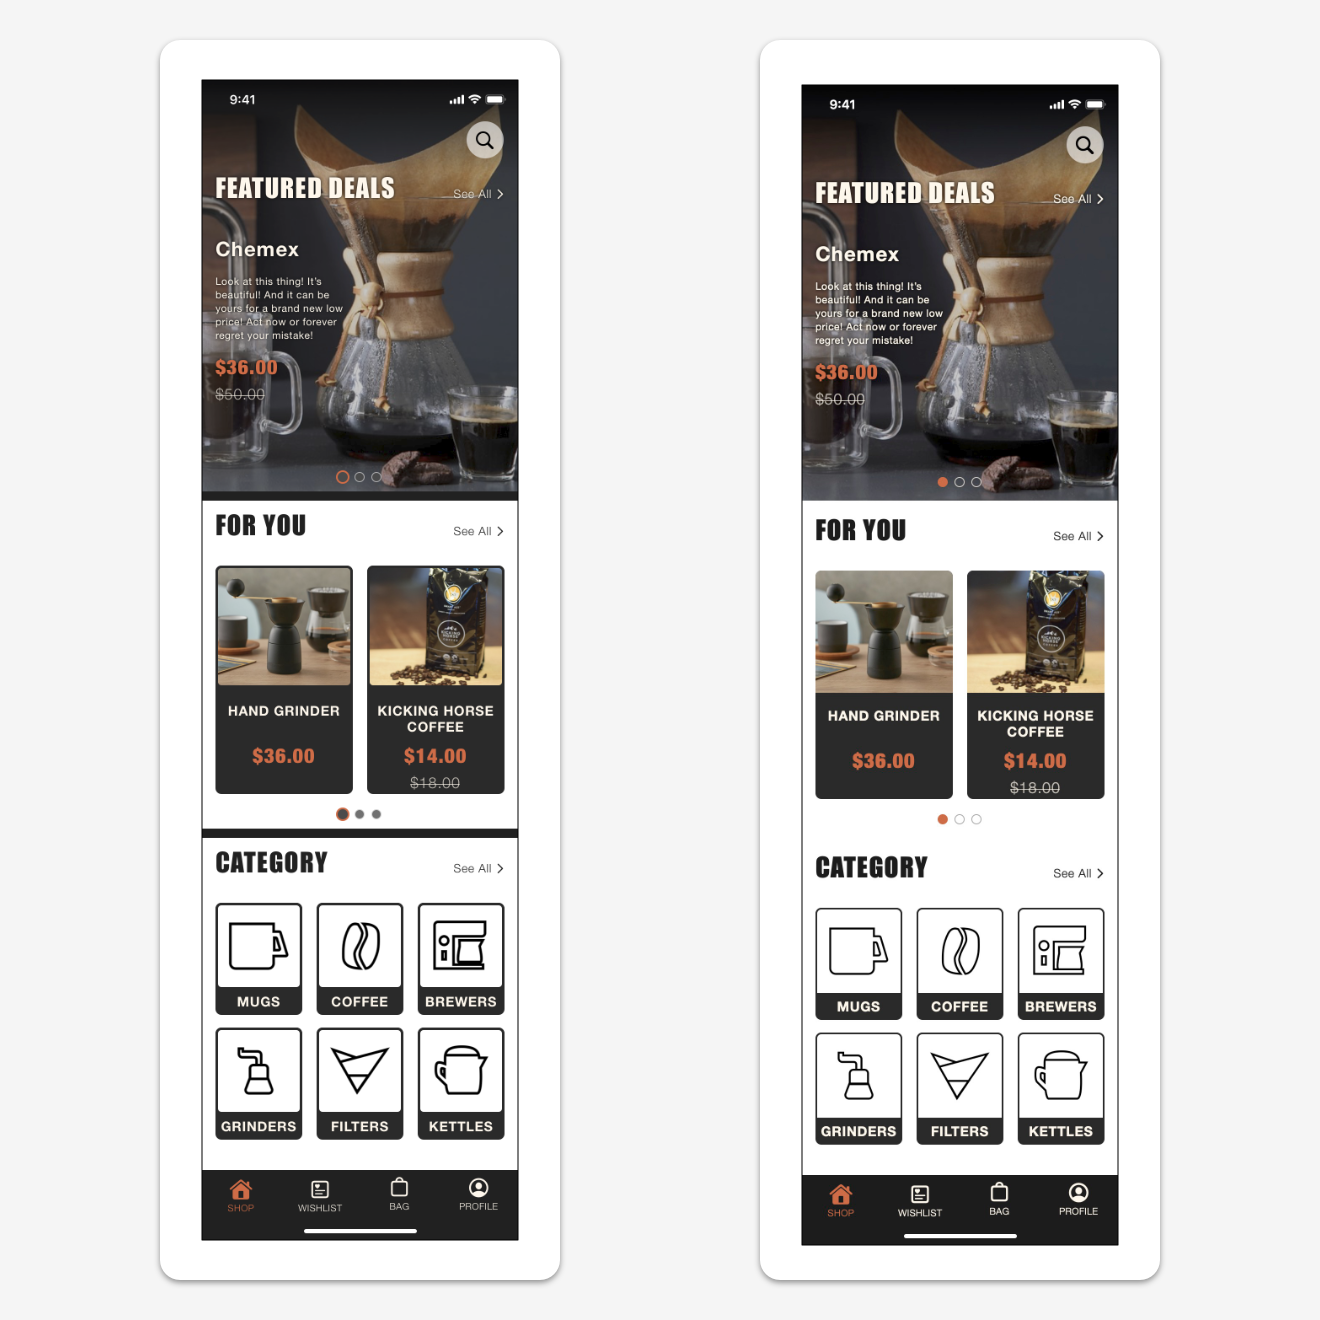
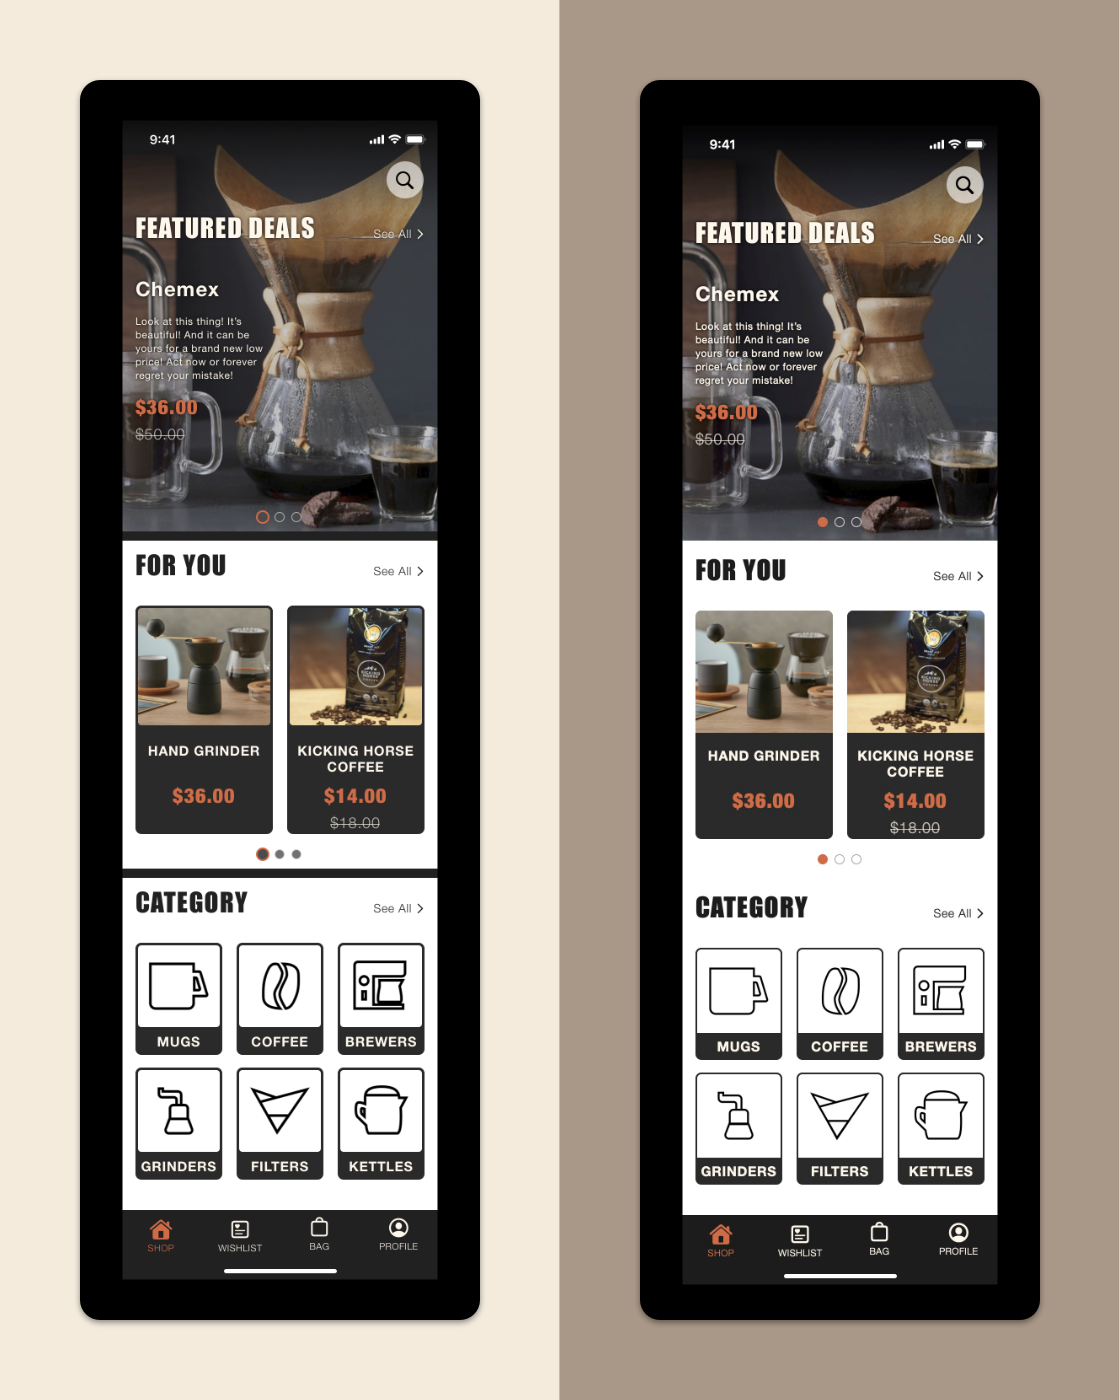
Updated Imagery
- added new images to Mug Shop
- tweaked imagery for Poseable

diff --git a/css/style.css b/css/style.css
@@ -417,7 +417,7 @@ nav>ul>li>a:hover {
 }
 
 .project-stats h1 {
-  color: rgba(255, 255, 255, 1);
+  color: rgba(15,15,15,1);
   font-size: 30px;
   line-height: 30px;
   padding-top: 15px;
@@ -427,7 +427,7 @@ nav>ul>li>a:hover {
 }
 
 .project-stats h4 {
-  color: rgba(255, 255, 255, .75);
+  color: rgba(15,15,15,.75);
   font-size: 14px;
   padding-left: 10px;
   margin-top: 8px;
@@ -435,21 +435,25 @@ nav>ul>li>a:hover {
 }
 
 .project-stats p {
-  color: rgba(255, 255, 255, 1);
+  color: rgba(15,15,15,1);
   font-size: 14px;
   font-weight: 400;
   padding: 0 10px;
   padding-bottom: 15px;
 }
 
+/*
 .project-header {
   background: rgb(213, 83, 38);
   background: linear-gradient(45deg, rgba(213, 83, 38, 1) 31%, rgba(128, 49, 20, 1) 69%);
   border-radius: 10px;
-}
+}*/
+
+
 .project-header.mug-shop {
-  background: rgb(213, 83, 38);
-  background: linear-gradient(45deg, rgba(213, 83, 38, 1) 31%, rgba(128, 49, 20, 1) 69%);
+  background: rgb(232,209,174);
+  background: linear-gradient(45deg, rgba(232,209,174,1) 31%, rgba(157,131,103,1) 69%);
+  border-radius: 10px;
 }
 .project-header.poseable {
   background: rgb(92,170,255);
@@ -768,12 +772,14 @@ Medium devices (640px and larger)
     margin-bottom: 15px;
   }
   .project-header.mug-shop {
-    background: rgb(213, 83, 38);
-    background: linear-gradient(45deg, rgba(213, 83, 38, 1) 64%, rgba(128, 49, 20, 1) 100%);
+    background: rgb(232,209,174);
+    background: linear-gradient(45deg, rgba(232,209,174,.7) 64%, rgba(157,131,103,.7) 100%);
+    border-radius: 20px;
   }
   .project-header.poseable {
     background: rgb(92,170,255);
-    background: linear-gradient(45deg, rgba(92,170,255) 64%, rgba(38,101,171,1) 100%);
+    background: linear-gradient(45deg, rgba(92,170,255,.7) 64%, rgba(38,101,171,.7) 100%);
+    border-radius: 20px;
   }
 
   .project-stats {

diff --git a/mug_shop.html b/mug_shop.html
@@ -267,6 +267,23 @@
 
       </div>
     </div>
+
+    <div class="container">
+
+      <div class="project-section">
+
+        <div class="col-md-12 col-lg-12">
+          <picture>
+            <source srcset="img/mug_shop/final_screens@0.5x.png" media="(max-width:767px)">
+            <img src="img/mug_shop/final_screens.png" class="project-img-banner" alt="Style Guide">
+          </picture>
+        </div>
+
+      </div>
+    </div>
+
+
+
     <div class="container">
       <!--Summary block-->
       <div class="project-text project-section">
